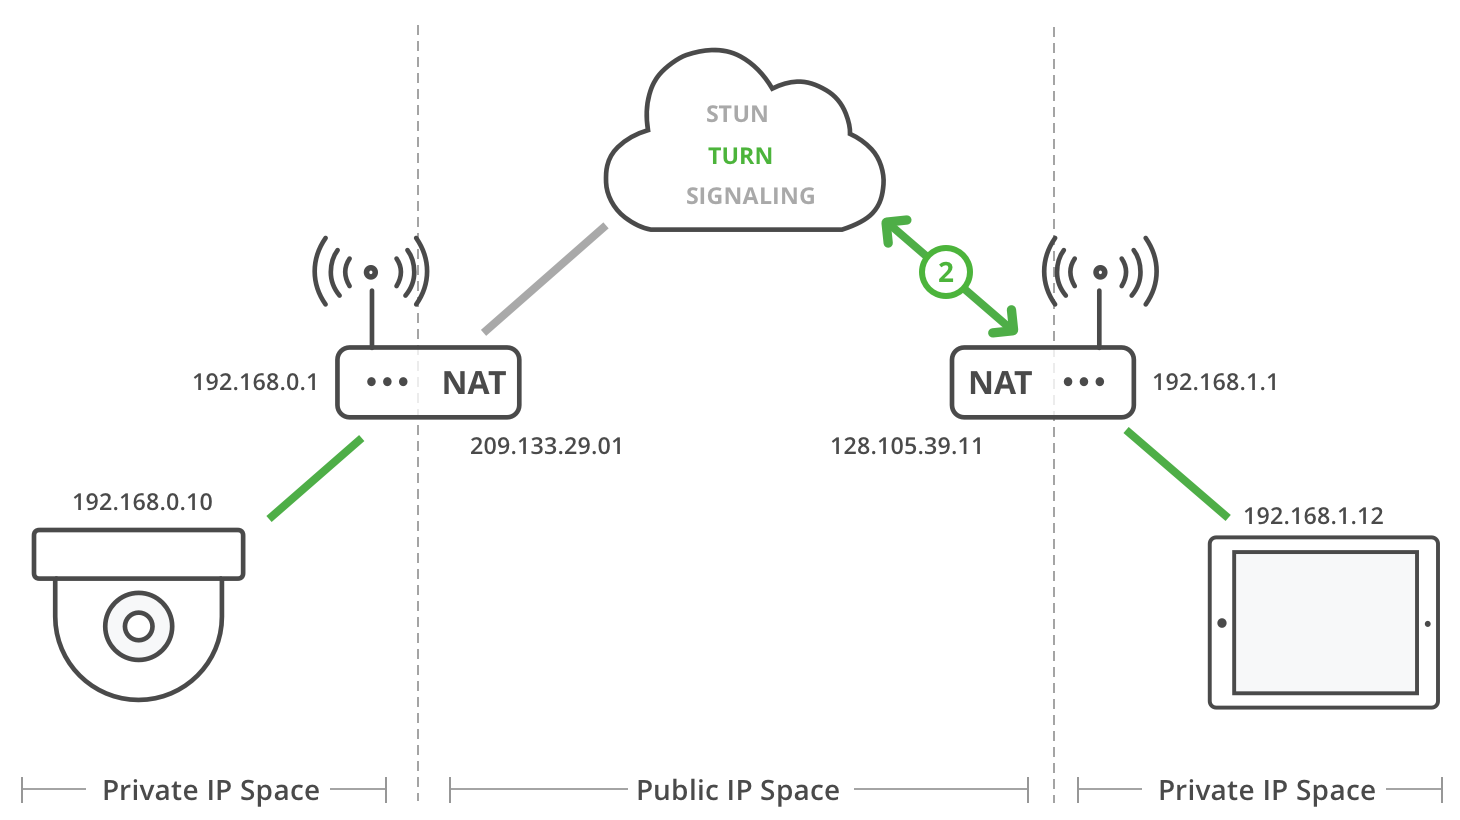
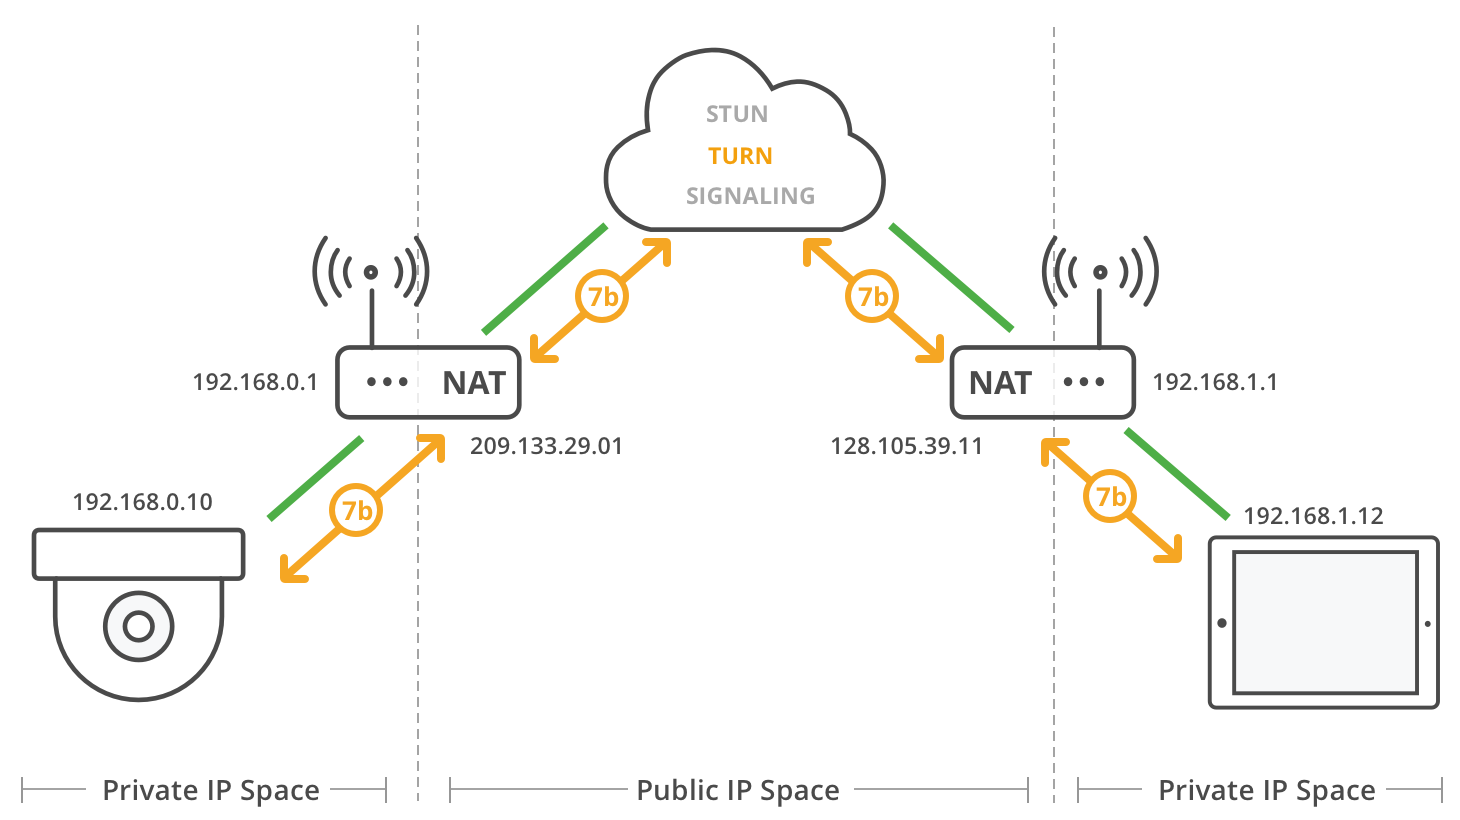
ICE

diff --git a/docs/web/webrtc/connecting.md b/docs/web/webrtc/connecting.md
@@ -41,3 +41,13 @@ TURN Server allows clients to send and receive data through an intermediary serv
 Typically A TURN client first sends a message to a TURN server to allocate an IP address and port on the TURN server. Once the allocation has succeeded, the client will use the IP address and port number to communicate with peers.
 
 ![](../../assets/images/webrtc/turn.png)
+
+### 2.5 ICE
+
+ICE (Interactive Connectivity Establishment) is how  WebRTC connects two Agents. ICE is a protocol for establishing connectivity. It determines all the possible routes between the two peers and then ensures you stay connected.
+
+These routes are known as `Candidate Pairs`, which is a pairing of a local and remote transport address. This is where STUN and TURN come into play with ICE. These addresses can be your local IP Address plus a port, `NAT mapping`, or `Relayed Transport Address`. Each side gathers all the addresses they want to use, exchanges them, and then attempts to connect!
+
+An ICE Agent is either Controlling or Controlled. The Controlling Agent is the one that decides the selected Candidate Pair. Usually, the peer sending the offer is the controlling side.
+
+Each side must have a `user fragment` and a `password`. These two values must be exchanged before connectivity checks can even begin. The `user fragment` is sent in plain text and is useful for demuxing multiple ICE Sessions. The `password` is used to generate a MESSAGE-INTEGRITY attribute. At the end of each STUN packet, there is an attribute that is a hash of the entire packet using the `password` as a key. This is used to authenticate the packet and ensure it hasn’t been tampered with.
